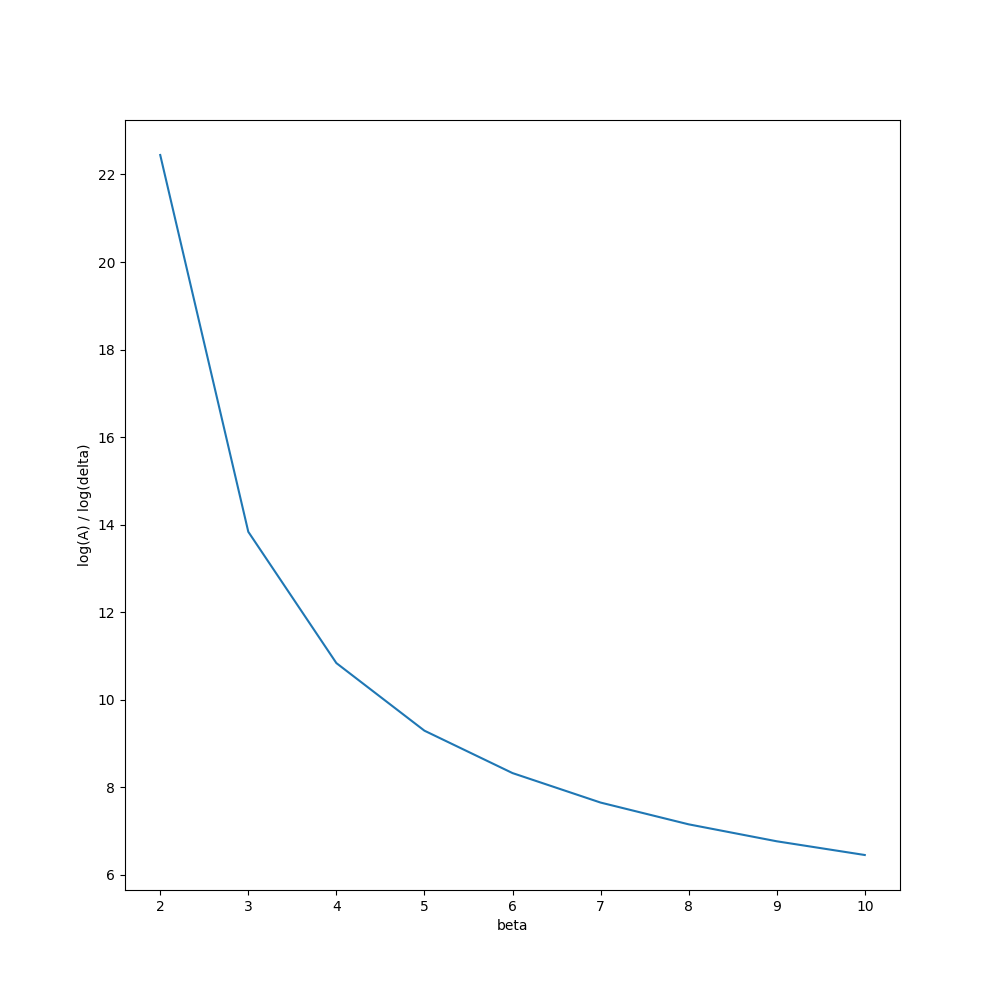
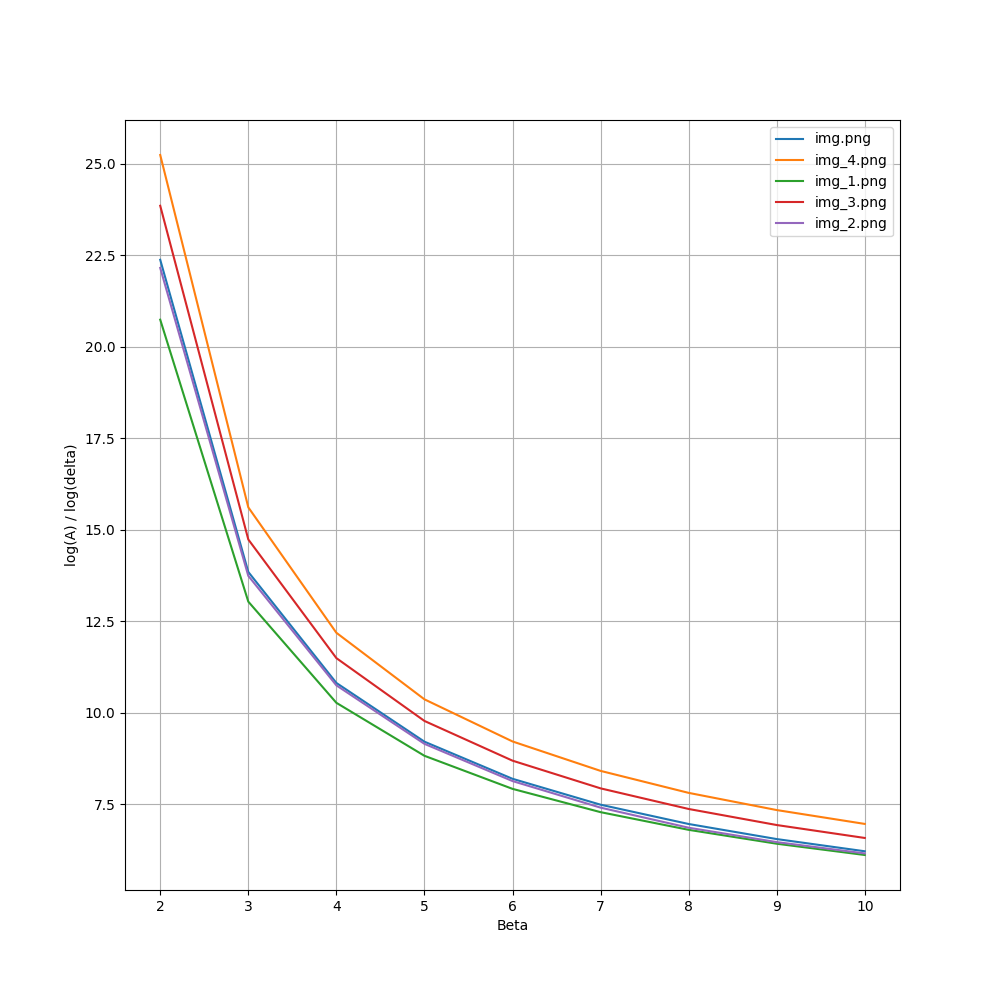
Update READMEs

diff --git a/lab6/main.py b/lab6/main.py
@@ -1,3 +1,5 @@
+from os import listdir
+
 import cv2
 import matplotlib.pyplot as plt
 import numpy as np
@@ -57,8 +59,6 @@ def get_A_s(img, betas):
 
         A = (vol2 - vol1) / 2
 
-        print(vol1, vol2)
-
         res = np.log(A) / np.log(beta)
 
         print(f'beta={beta}: A={res}')
@@ -66,18 +66,32 @@ def get_A_s(img, betas):
         yield res
 
 
-if __name__ == '__main__':
-    img = cv2.imread('../text/img.png')
-    img = cv2.cvtColor(img, cv2.COLOR_BGR2GRAY)
+def get_filepaths(dirpath):
+    files = listdir(dirpath)
+    for file in files:
+        yield '%s/%s' % (dirpath, file), file
+
+
+plt.figure(figsize=(10, 10))
+plt.xlabel('Beta')
+plt.ylabel('log(A) / log(delta)')
+plt.grid(True)
+
+l_s = []
+labels = []
+
+for path, filename in get_filepaths('../images'):
+    image = cv2.imread(path)
+    image = cv2.cvtColor(image, cv2.COLOR_BGR2GRAY)
 
     betas = [i for i in range(2, 11)]
 
-    A_s = [i for i in get_A_s(img, betas)]
+    A_s = [i for i in get_A_s(image, betas)]
 
-    plt.figure(figsize=(10, 10))
     line, = plt.plot(betas, A_s)
 
-    plt.xlabel('beta')
-    plt.ylabel('log(A) / log(delta)')
+    l_s.append(line)
+    labels.append(filename)
 
-    plt.show()
+plt.legend(l_s, labels)
+plt.savefig('plot.png')

diff --git a/lab7/main.py b/lab7/main.py
@@ -1,3 +1,5 @@
+from os import listdir
+
 import cv2
 import matplotlib.pyplot as plt
 import numpy as np
@@ -60,8 +62,22 @@ def get_D(img):
     return 2 - (np.log(A_2) - np.log(A_3)) / (np.log(2) - np.log(3))
 
 
-if __name__ == '__main__':
-    img = cv2.imread('../text/img.png')
+def get_filepaths(dirpath):
+    files = listdir(dirpath)
+    for file in files:
+        yield '%s/%s' % (dirpath, file), file
+
+
+plt.figure(figsize=(10, 10))
+plt.xlabel('Sizes')
+plt.ylabel('Minkowski distance')
+plt.grid(True)
+
+l_s = []
+labels = []
+
+for path, filename in get_filepaths('../images'):
+    img = cv2.imread(path)
     img = cv2.cvtColor(img, cv2.COLOR_BGR2GRAY)
 
     sizes = [i for i in range(10, 100, 10)]
@@ -77,11 +93,12 @@ if __name__ == '__main__':
         print(f'For size={size} D={D}')
         D_s.append(D)
 
-    f = plt.figure(figsize=(10, 10))
-    plt.plot(sizes, D_s)
-    plt.xlabel('Sizes')
-    plt.ylabel('Minkowski distance')
-    plt.show()
-    plt.savefig(f, 'plot.png')
+    l, = plt.plot(sizes, D_s)
+
+    l_s.append(l)
+    labels.append(filename)
 
     print('DONE!')
+
+plt.legend(l_s, labels)
+plt.savefig('plot.png')

diff --git a/lab6/README.md b/lab6/README.md
@@ -3,6 +3,36 @@
 Предлагаемая программа вычисляет вектор значений ln A_delta / ln delta (delta=1..10) (Можно использовать как
 симметричный так и ассиметричный метод)
 
+### Примечание
+
+Так как _log(1) = 0_, то мы возьмем _delta = (2..10)_.
+
+## Изображения
+
+- img.png ![после обработки](https://github.com/KosteRico/fractal-analysis-labs/blob/main/images/img.png?raw=true)
+
+- img_1.png ![после обработки](https://github.com/KosteRico/fractal-analysis-labs/blob/main/images/img_1.png?raw=true)
+
+- img_2.png ![после обработки](https://github.com/KosteRico/fractal-analysis-labs/blob/main/images/img_2.png?raw=true)
+
+- img_3.png ![после обработки](https://github.com/KosteRico/fractal-analysis-labs/blob/main/images/img_3.png?raw=true)
+
+- img_4.png ![после обработки](https://github.com/KosteRico/fractal-analysis-labs/blob/main/images/img_4.png?raw=true)
+
 ## График
 
+- img.png
+  ![график](https://github.com/KosteRico/fractal-analysis-labs/blob/main/lab6/plot_img.png?raw=true)
+- img_1.png
+  ![график](https://github.com/KosteRico/fractal-analysis-labs/blob/main/lab6/plot_img_1.png?raw=true)
+- img_2.png
+  ![график](https://github.com/KosteRico/fractal-analysis-labs/blob/main/lab6/plot_img_2.png?raw=true)
+- img_3.png
+  ![график](https://github.com/KosteRico/fractal-analysis-labs/blob/main/lab6/plot_img_3.png?raw=true)
+- img_4.png
+  ![график](https://github.com/KosteRico/fractal-analysis-labs/blob/main/lab6/plot_img_4.png?raw=true)
+
+## Сравнительный график
+
 ![график](https://github.com/KosteRico/fractal-analysis-labs/blob/main/lab6/plot.png?raw=true)
+  

diff --git a/lab7/README.md b/lab7/README.md
@@ -3,6 +3,24 @@
 Предлагаемая программа вычисляет вектор размерностей Минковского для выбранного изображения при изменении размера ячейки
 разбиения
 
-## График
+## Описание работы
 
-![график](https://github.com/KosteRico/fractal-analysis-labs/blob/main/lab7/plot.png?raw=true)
+В данной работе мы возьмем размеры ячейки от 10 до 90. Как можно увидеть дальше на графиках, изменеия размерности
+Минковского довольно значительны.
+
+## Изображения
+
+- img.png ![после обработки](https://github.com/KosteRico/fractal-analysis-labs/blob/main/images/img.png?raw=true)
+
+- img_1.png ![после обработки](https://github.com/KosteRico/fractal-analysis-labs/blob/main/images/img_1.png?raw=true)
+
+- img_2.png ![после обработки](https://github.com/KosteRico/fractal-analysis-labs/blob/main/images/img_2.png?raw=true)
+
+- img_3.png ![после обработки](https://github.com/KosteRico/fractal-analysis-labs/blob/main/images/img_3.png?raw=true)
+
+- img_4.png ![после обработки](https://github.com/KosteRico/fractal-analysis-labs/blob/main/images/img_4.png?raw=true)
+
+## График для всех изображений
+
+- img.png
+  ![график](https://github.com/KosteRico/fractal-analysis-labs/blob/main/lab7/plot.png?raw=true)

diff --git a/lab4/README.md b/lab4/README.md
@@ -2,6 +2,18 @@
 
 Предлагаемая программа вычисляет размерность Минковского методом построения покрывала для полутонного изображения
 
+## Изображения
+
+- img.png ![после обработки](https://github.com/KosteRico/fractal-analysis-labs/blob/main/images/img.png?raw=true)
+
+- img_1.png ![после обработки](https://github.com/KosteRico/fractal-analysis-labs/blob/main/images/img_1.png?raw=true)
+
+- img_2.png ![после обработки](https://github.com/KosteRico/fractal-analysis-labs/blob/main/images/img_2.png?raw=true)
+
+- img_3.png ![после обработки](https://github.com/KosteRico/fractal-analysis-labs/blob/main/images/img_3.png?raw=true)
+
+- img_4.png ![после обработки](https://github.com/KosteRico/fractal-analysis-labs/blob/main/images/img_4.png?raw=true)
+
 ## Результаты
 
 - img.png: 1.70345121
